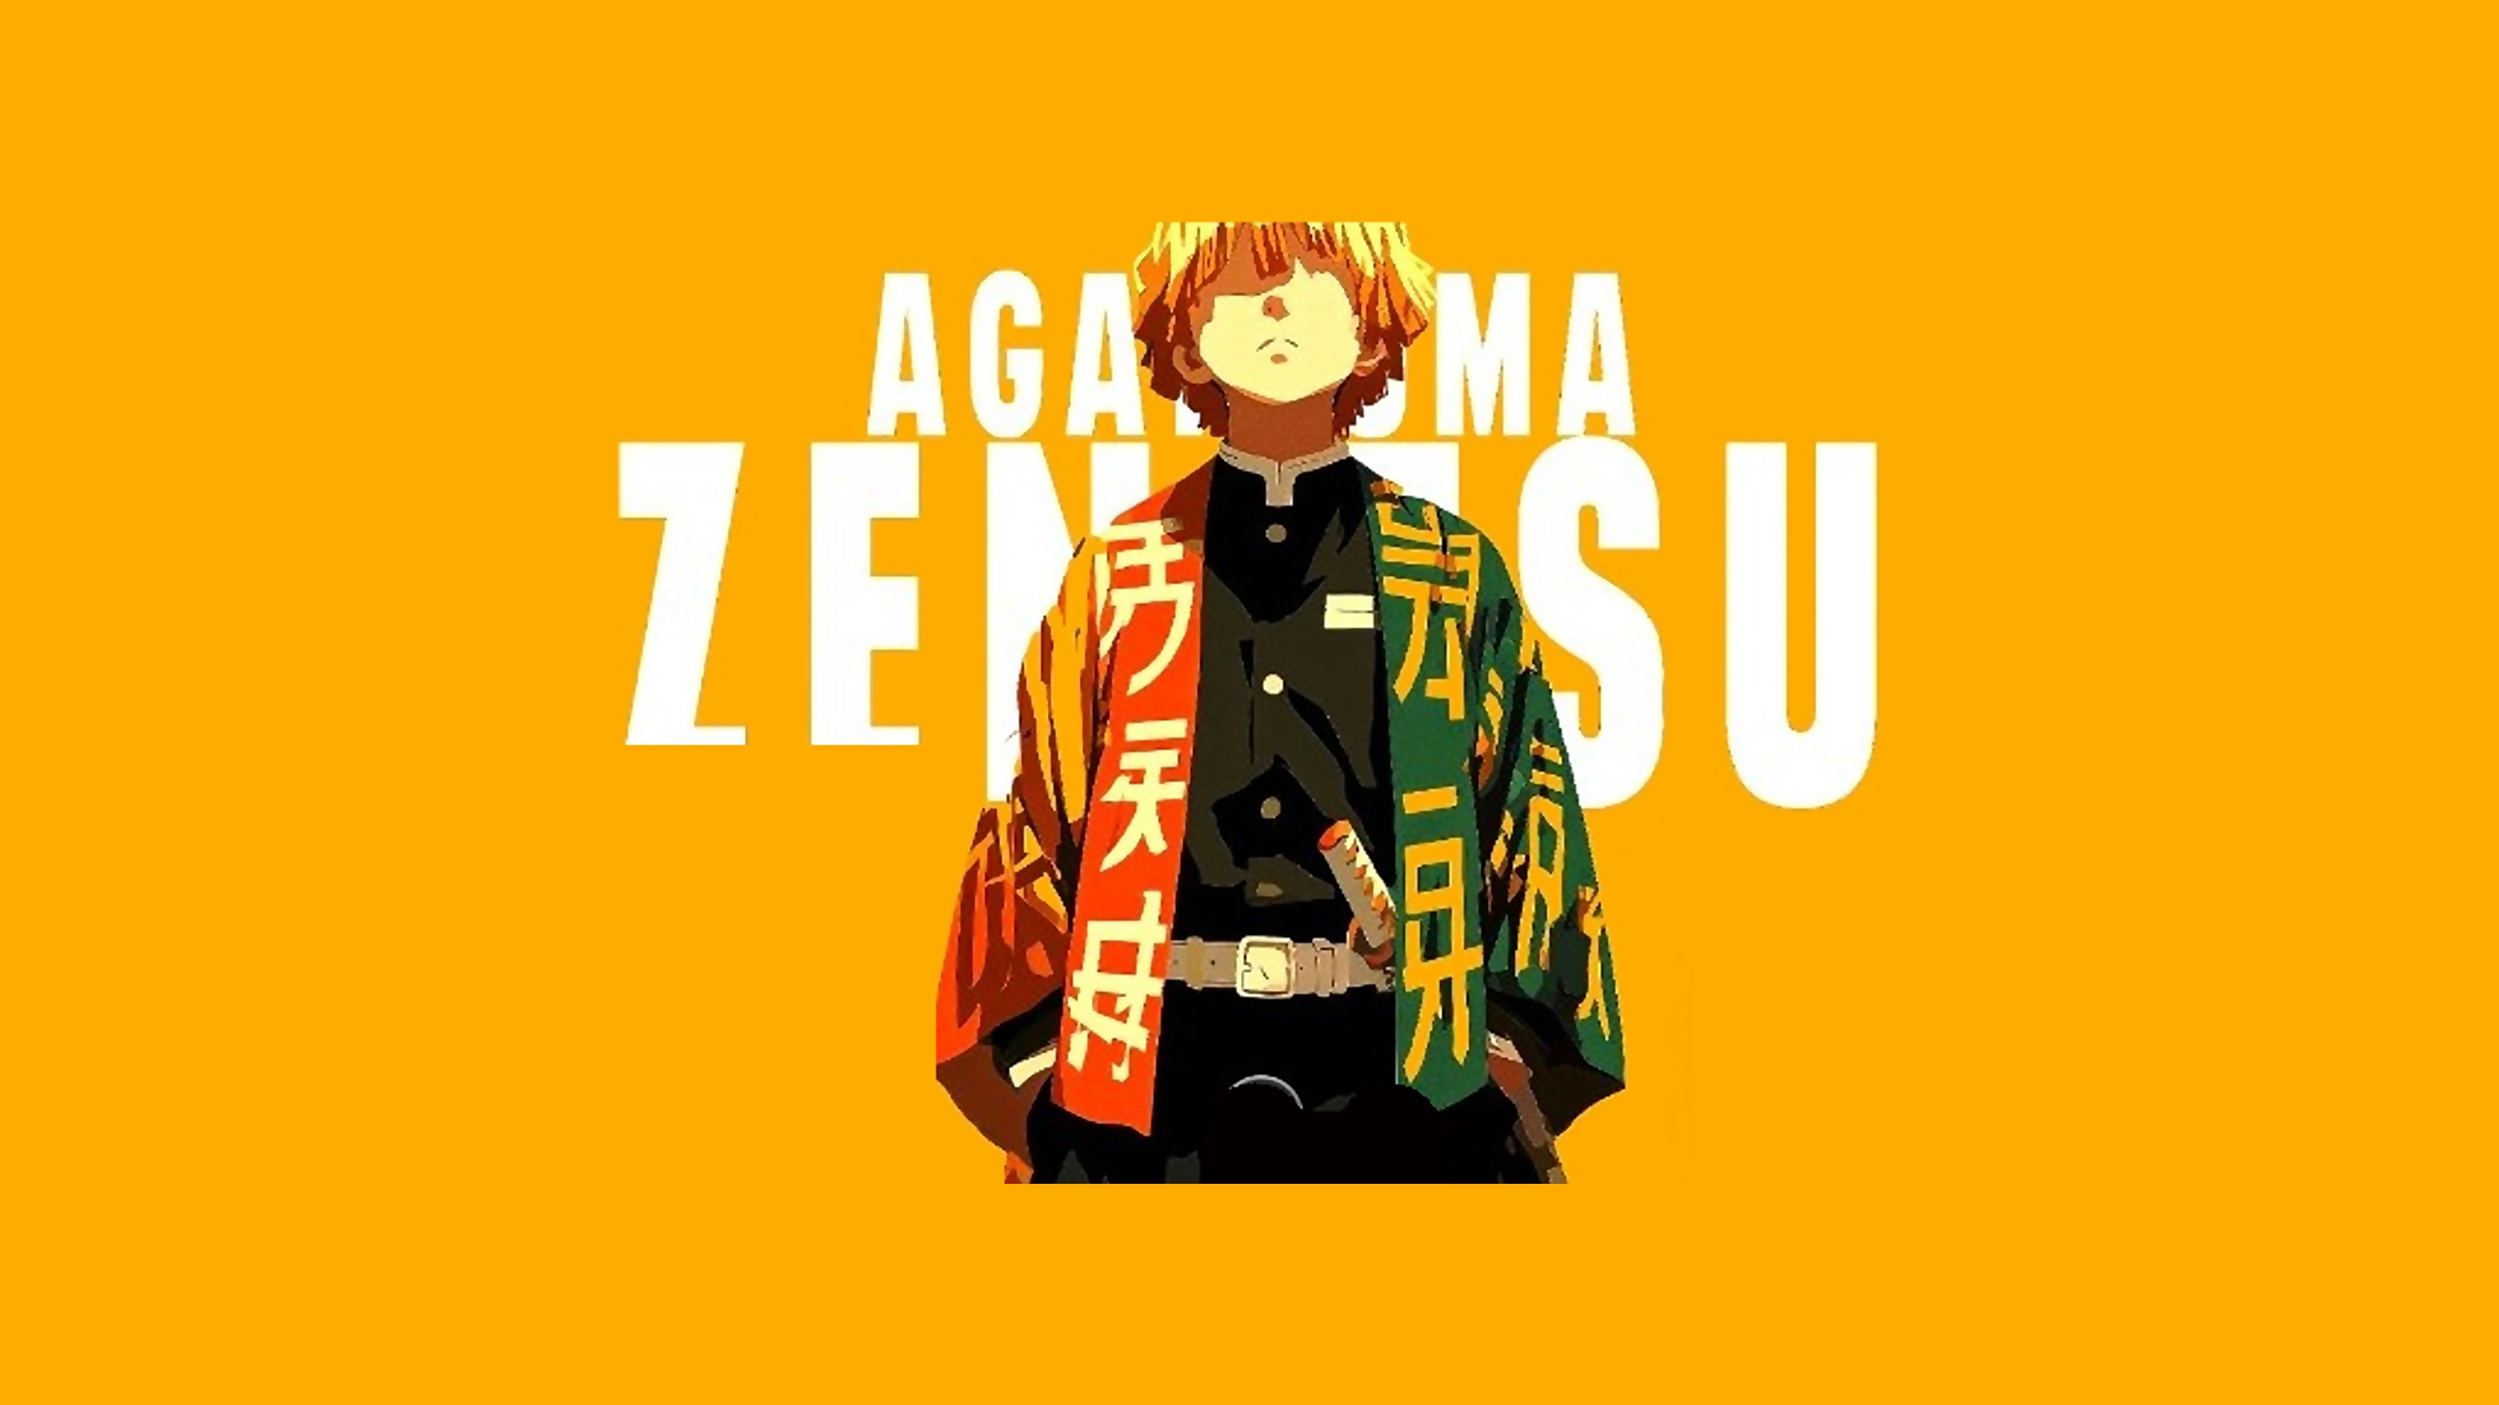
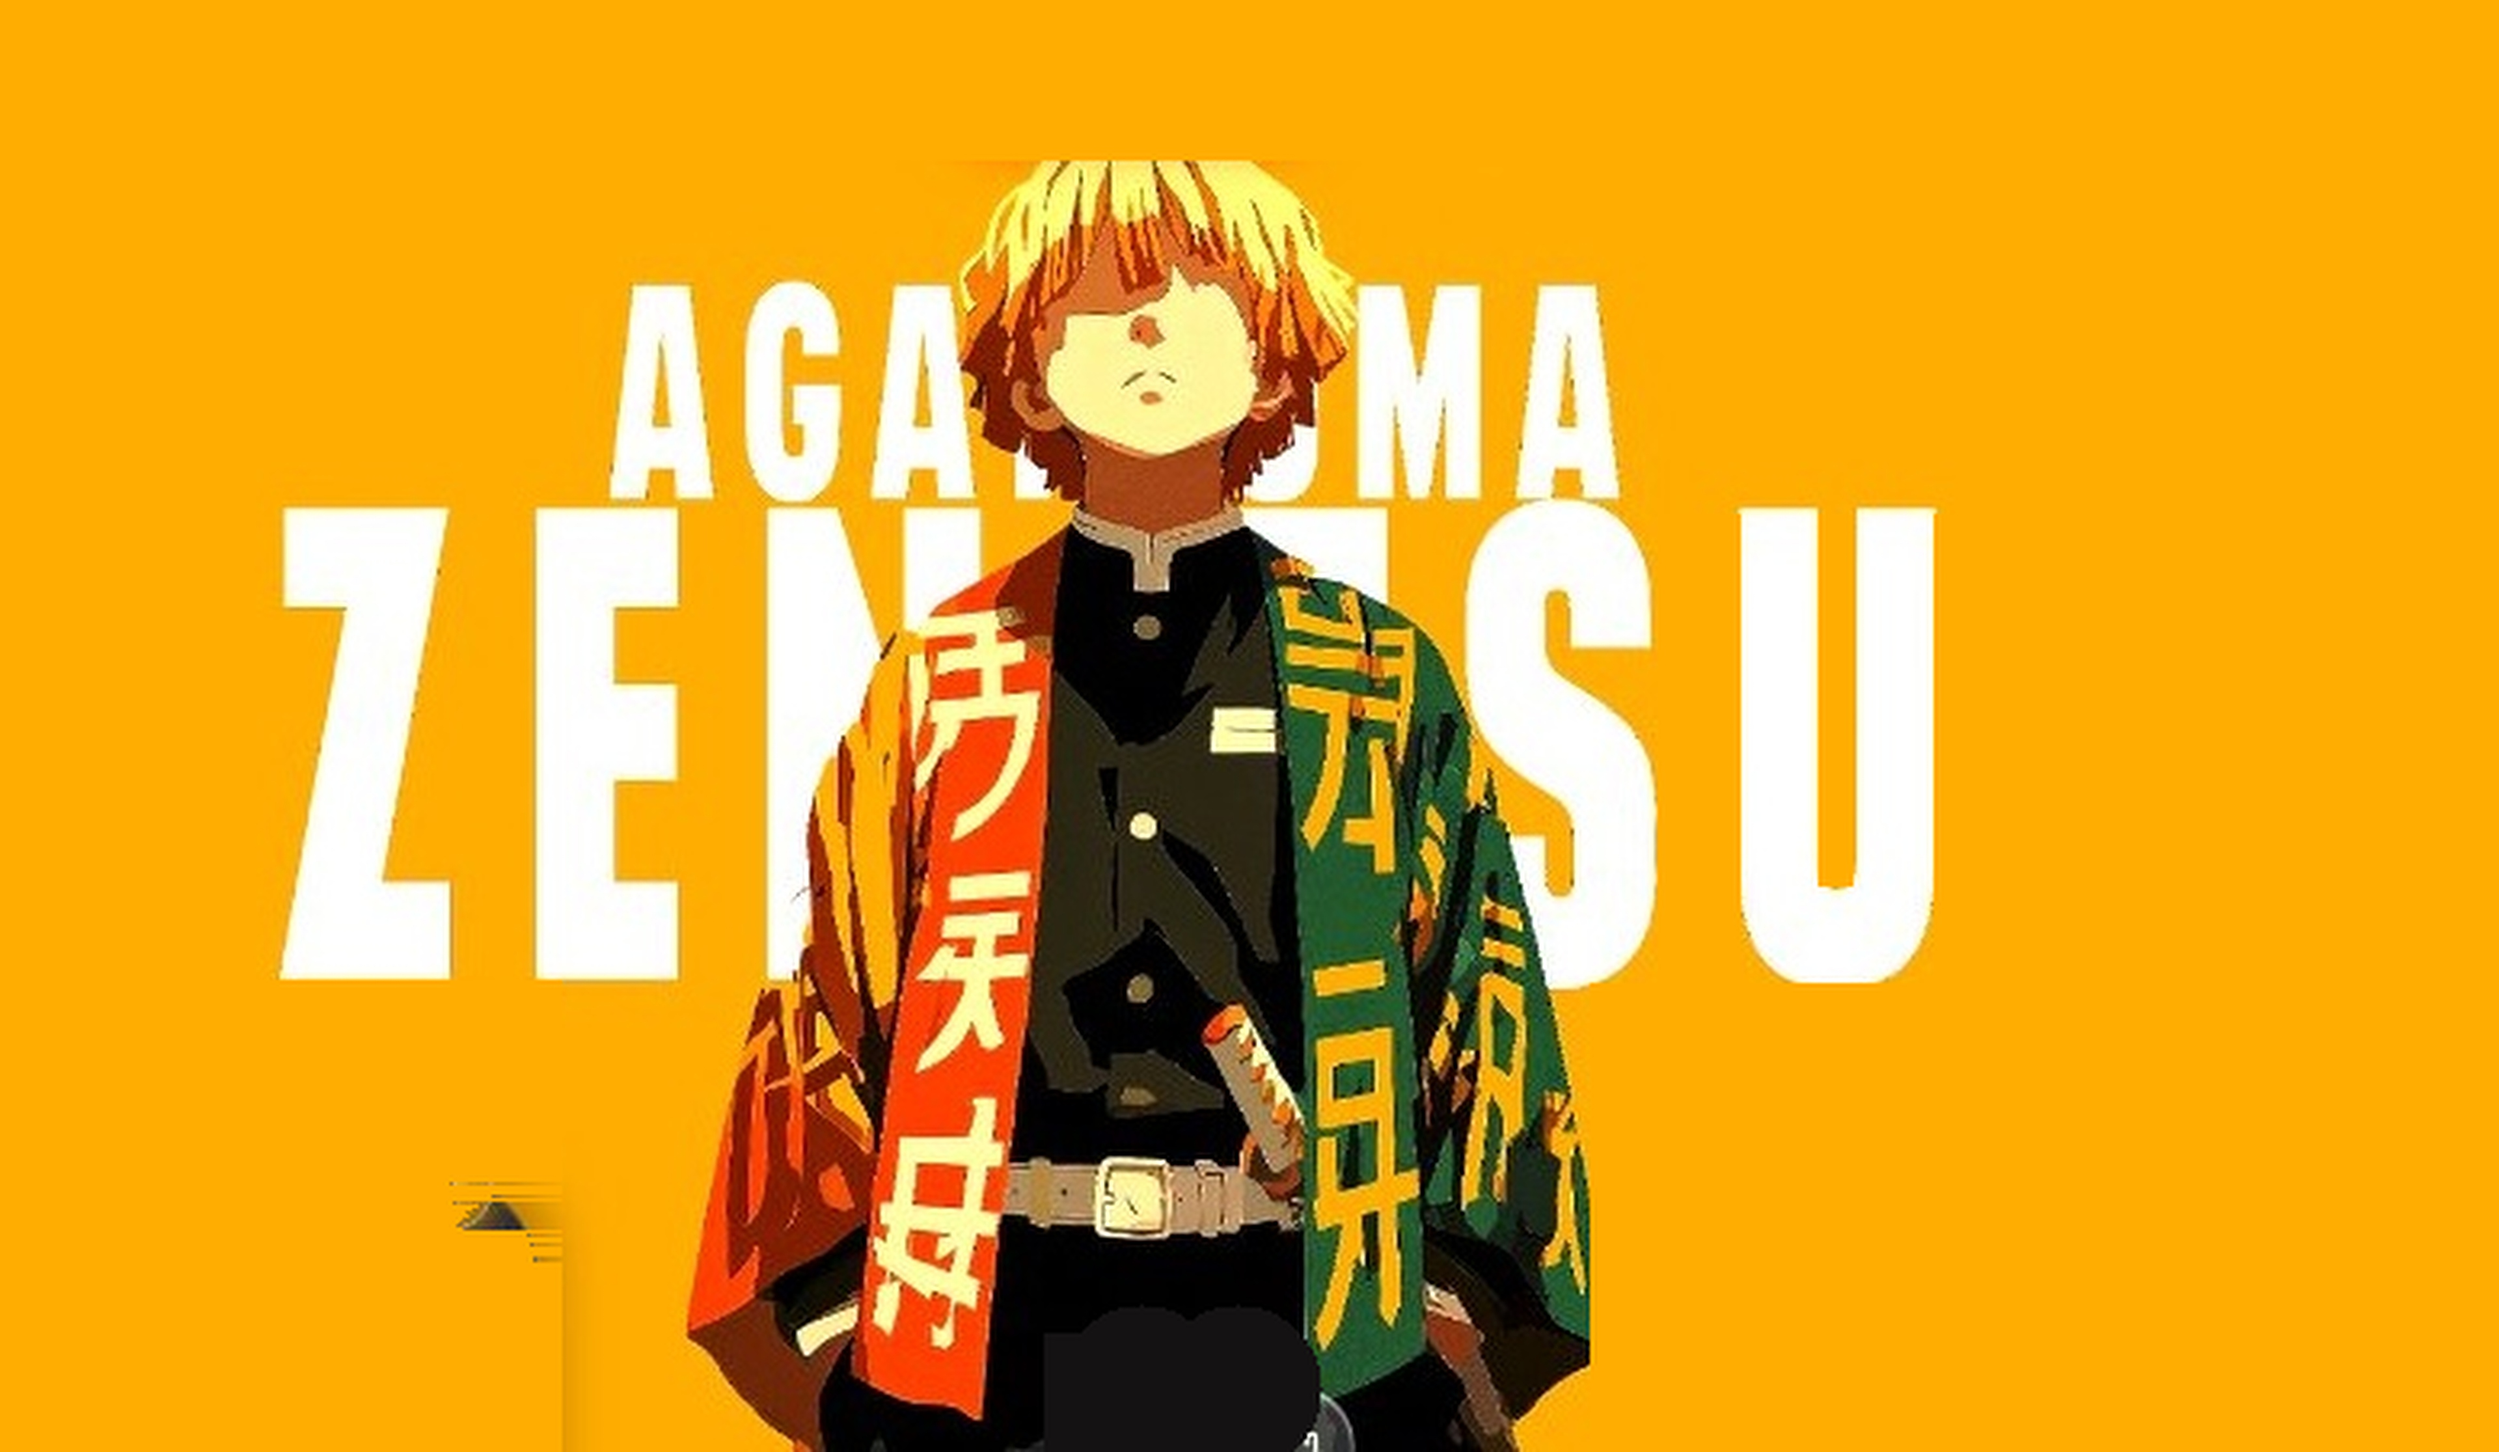
fix(studio): deliver true 4K full-fit Zenitsu composition without letterboxing and prevent genre tag overflow

diff --git a/src/utils/studioBackgroundsDB.js b/src/utils/studioBackgroundsDB.js
@@ -74,8 +74,8 @@ function openDB() {
  */
 export async function getStudioBackgrounds() {
   try {
-    // Auto-migration: Purge any old mockup screenshots so clean 4K centered Zenitsu visual takes effect immediately
-    const MIGRATION_KEY = 'musicly_studio_bg_v5_4k_centered';
+    // Auto-migration: Purge any old mockup screenshots so clean 4K full-fit Zenitsu visual takes effect immediately
+    const MIGRATION_KEY = 'musicly_studio_bg_v6_4k_fullfit';
     if (typeof localStorage !== 'undefined' && !localStorage.getItem(MIGRATION_KEY)) {
       try {
         localStorage.setItem(MIGRATION_KEY, 'true');

diff --git a/src/index.css b/src/index.css
@@ -2487,6 +2487,8 @@ body, html, #root {
   color: var(--text-muted);
   min-width: 0;
   white-space: nowrap;
+  overflow: hidden;
+  max-width: 100%;
 }
 
 .track-row-artist {
@@ -2642,6 +2644,8 @@ body, html, #root {
   line-height: 1.2;
   white-space: nowrap;
   flex-shrink: 0;
+  max-width: 140px;
+  overflow: hidden;
 }
 
 .genre-tag-interactive:hover {
@@ -2654,6 +2658,9 @@ body, html, #root {
 .genre-tag-interactive .track-row-genre {
   color: inherit;
   white-space: nowrap;
+  overflow: hidden;
+  text-overflow: ellipsis;
+  max-width: 120px;
 }
 
 .genre-tag-icon {
